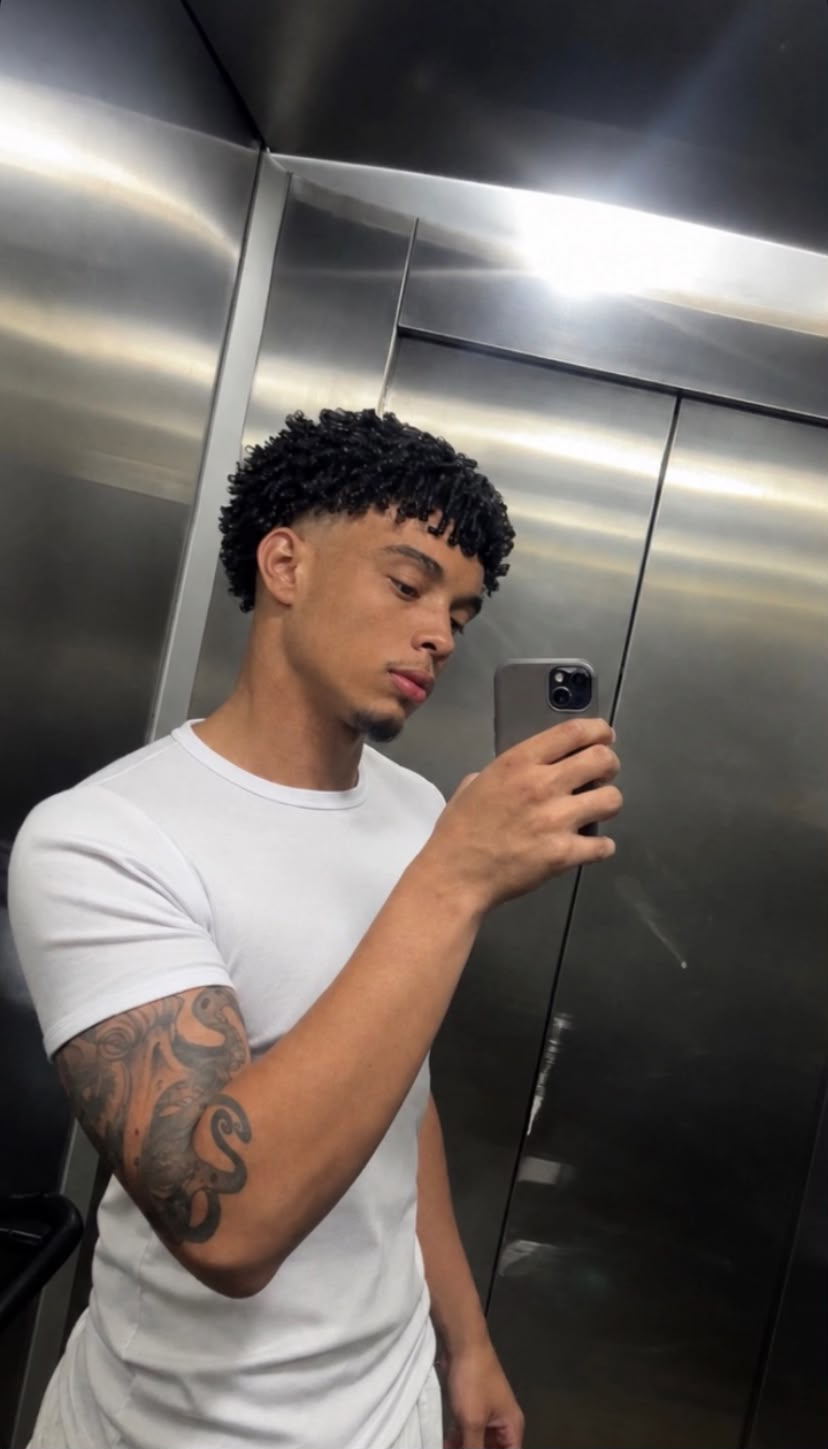
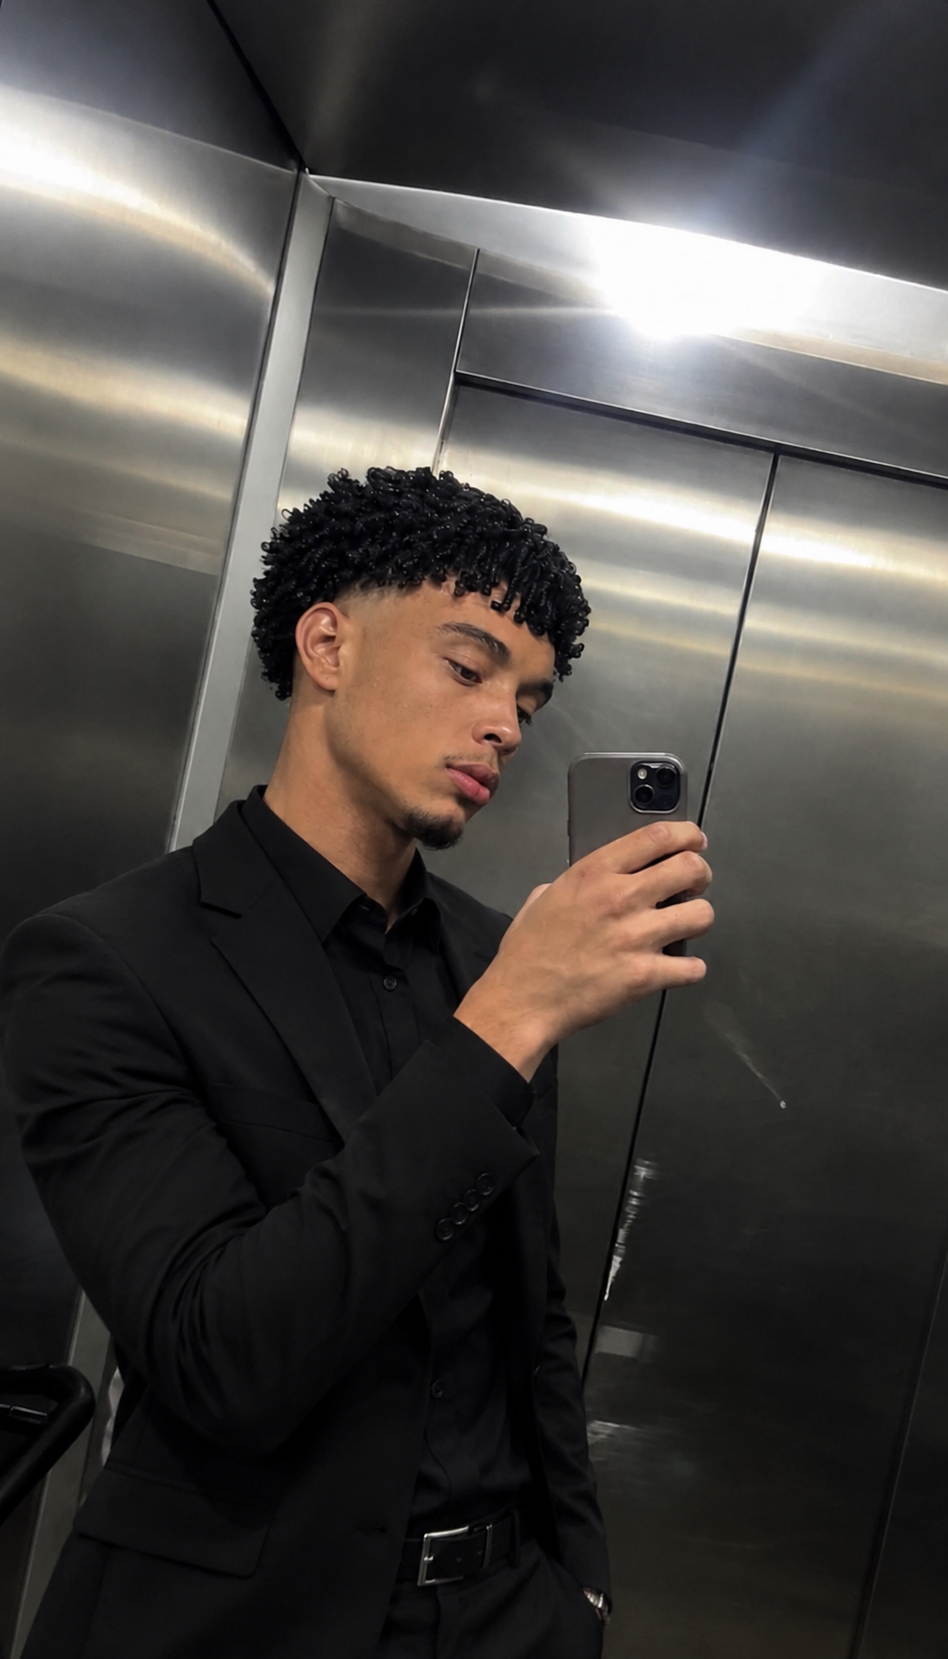
pronto

diff --git a/index.html b/index.html
@@ -29,7 +29,9 @@ header,main,footer{position:relative;z-index:1}
 .team{display:grid;grid-template-columns:repeat(auto-fit,minmax(260px,1fr));gap:clamp(20px,3vw,40px);max-width:1120px;margin:0 auto;padding:0 clamp(20px,5vw,64px) clamp(64px,8vw,110px)}
 .card{background:var(--navy2);border:1px solid var(--line);border-top:4px solid var(--orange);padding:22px;display:flex;flex-direction:column}
 .photo{aspect-ratio:4/5;background:var(--navy);border:1px solid var(--line);display:grid;place-items:center;margin-bottom:20px;overflow:hidden;background-image:linear-gradient(var(--line) 1px,transparent 1px),linear-gradient(90deg,var(--line) 1px,transparent 1px);background-size:24px 24px}
-.photo img{width:100%;height:100%;object-fit:cover}
+.photo img{width:100%;height:100%;object-fit:cover;display:block}
+.photo img[src="guilherme.jpeg"]{object-position:center 35%}
+.photo img[src="miguel.jpeg"]{object-position:center 28%}
 .photo span{font:400 72px/1 Anton,Impact,sans-serif;color:var(--orange);opacity:.9}
 .card h3{font:400 34px/1.05 Anton,Impact,sans-serif;margin:0;text-transform:uppercase}
 .role{margin:6px 0 22px;opacity:.8}
@@ -60,29 +62,29 @@ footer{background:var(--cream);color:var(--navy);text-align:center;padding:30px 
   </section>
   <section class="team" aria-label="Integrantes da equipe">
 <article class="card">
-  <div class="photo"><span><img src="Guilherme.JPG" alt="foto Guilherme"></span></div>
-  <h3>Guilherme M.</h3>
-  <p class="role">Função no projeto</p>
+  <div class="photo"><img src="guilherme.jpeg" alt="foto Guilherme"></div>
+  <h3>Guilherme Malheiro</h3>
+  
   <div class="links">
     <a href="https://www.linkedin.com/in/guilherme-malheiro-899588296?utm_source=share_via&utm_content=profile&utm_medium=member_ios" target="_blank" rel="noopener" aria-label="LinkedIn de Guilherme M."><svg viewBox="0 0 24 24" aria-hidden="true"><path fill="currentColor" d="M4.98 3.5a2.5 2.5 0 1 1 0 5 2.5 2.5 0 0 1 0-5zM3 9.75h4V21H3zM9.5 9.75h3.8v1.6h.06c.53-1 1.84-2.05 3.8-2.05 4.06 0 4.8 2.67 4.8 6.14V21h-4v-4.9c0-1.17-.02-2.67-1.63-2.67-1.63 0-1.88 1.27-1.88 2.58V21h-4z"/></svg>LinkedIn</a>
     <a href="https://www.instagram.com/guilherme.malheiro00?mdxt=am40MGlyd25vbHE2&utm_source=qr" target="_blank" rel="noopener" aria-label="Instagram de Guilherme M."><svg viewBox="0 0 24 24" aria-hidden="true" fill="none" stroke="currentColor" stroke-width="2"><rect x="3" y="3" width="18" height="18" rx="5"/><circle cx="12" cy="12" r="4"/><circle cx="17.5" cy="6.5" r="1" fill="currentColor" stroke="none"/></svg>Instagram</a>
   </div>
 </article>
 <article class="card">
-  <div class="photo"><span><img src="Miguel.jpeg" alt="foto Miguel"></span></div>
-  <h3>Migeul A.</h3>
-  <p class="role">Função no projeto</p>
+  <div class="photo"><img src="miguel.jpeg" alt="foto Miguel"></div>
+  <h3>Miguel Ângelo</h3>
+  
   <div class="links">
-    <a href="#" target="_blank" rel="noopener" aria-label="LinkedIn de Integrante 2"><svg viewBox="0 0 24 24" aria-hidden="true"><path fill="currentColor" d="M4.98 3.5a2.5 2.5 0 1 1 0 5 2.5 2.5 0 0 1 0-5zM3 9.75h4V21H3zM9.5 9.75h3.8v1.6h.06c.53-1 1.84-2.05 3.8-2.05 4.06 0 4.8 2.67 4.8 6.14V21h-4v-4.9c0-1.17-.02-2.67-1.63-2.67-1.63 0-1.88 1.27-1.88 2.58V21h-4z"/></svg>LinkedIn</a>
+    <a href="https://www.linkedin.com/in/miguel-bento-116300450/" target="_blank" rel="noopener" aria-label="LinkedIn de Integrante 2"><svg viewBox="0 0 24 24" aria-hidden="true"><path fill="currentColor" d="M4.98 3.5a2.5 2.5 0 1 1 0 5 2.5 2.5 0 0 1 0-5zM3 9.75h4V21H3zM9.5 9.75h3.8v1.6h.06c.53-1 1.84-2.05 3.8-2.05 4.06 0 4.8 2.67 4.8 6.14V21h-4v-4.9c0-1.17-.02-2.67-1.63-2.67-1.63 0-1.88 1.27-1.88 2.58V21h-4z"/></svg>LinkedIn</a>
     <a href="https://www.instagram.com/miguel.brck?mdxt=d2xyazlpNmczcjJ0" target="_blank" rel="noopener" aria-label="Instagram de Integrante 2"><svg viewBox="0 0 24 24" aria-hidden="true" fill="none" stroke="currentColor" stroke-width="2"><rect x="3" y="3" width="18" height="18" rx="5"/><circle cx="12" cy="12" r="4"/><circle cx="17.5" cy="6.5" r="1" fill="currentColor" stroke="none"/></svg>Instagram</a>
   </div>
 </article>
 <article class="card">
-  <div class="photo"><span><img src="Kaio.jpeg" alt="foto Kaip"></span></div>
-  <h3>Kaio P.</h3>
-  <p class="role">Função no projeto</p>
+  <div class="photo"><span><img src="kaio.jpeg" alt="foto Kaip"></span></div>
+  <h3>Kaio Pereira</h3>
+  
   <div class="links">
-    <a href="#" target="_blank" rel="noopener" aria-label="LinkedIn de Integrante 3"><svg viewBox="0 0 24 24" aria-hidden="true"><path fill="currentColor" d="M4.98 3.5a2.5 2.5 0 1 1 0 5 2.5 2.5 0 0 1 0-5zM3 9.75h4V21H3zM9.5 9.75h3.8v1.6h.06c.53-1 1.84-2.05 3.8-2.05 4.06 0 4.8 2.67 4.8 6.14V21h-4v-4.9c0-1.17-.02-2.67-1.63-2.67-1.63 0-1.88 1.27-1.88 2.58V21h-4z"/></svg>LinkedIn</a>
+    <a href="https://www.linkedin.com/in/kaio-pereira-a25ab6450?utm_source=share_via&utm_content=profile&utm_medium=member_ios" target="_blank" rel="noopener" aria-label="LinkedIn de Integrante 3"><svg viewBox="0 0 24 24" aria-hidden="true"><path fill="currentColor" d="M4.98 3.5a2.5 2.5 0 1 1 0 5 2.5 2.5 0 0 1 0-5zM3 9.75h4V21H3zM9.5 9.75h3.8v1.6h.06c.53-1 1.84-2.05 3.8-2.05 4.06 0 4.8 2.67 4.8 6.14V21h-4v-4.9c0-1.17-.02-2.67-1.63-2.67-1.63 0-1.88 1.27-1.88 2.58V21h-4z"/></svg>LinkedIn</a>
     <a href="https://www.instagram.com/kaio_7x?exln=MTYxbmttc3hkeW5tMQ==" target="_blank" rel="noopener" aria-label="Instagram de Integrante 3"><svg viewBox="0 0 24 24" aria-hidden="true" fill="none" stroke="currentColor" stroke-width="2"><rect x="3" y="3" width="18" height="18" rx="5"/><circle cx="12" cy="12" r="4"/><circle cx="17.5" cy="6.5" r="1" fill="currentColor" stroke="none"/></svg>Instagram</a>
   </div>
 </article>
